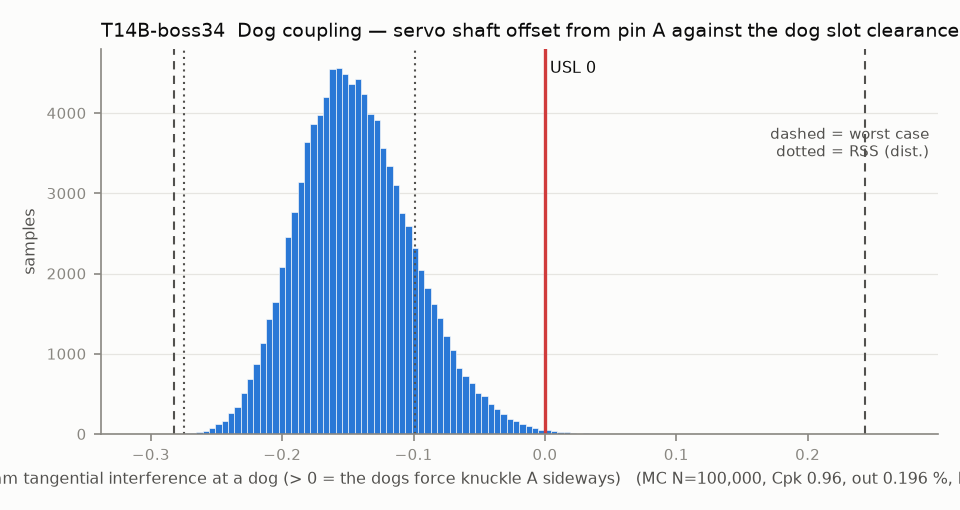
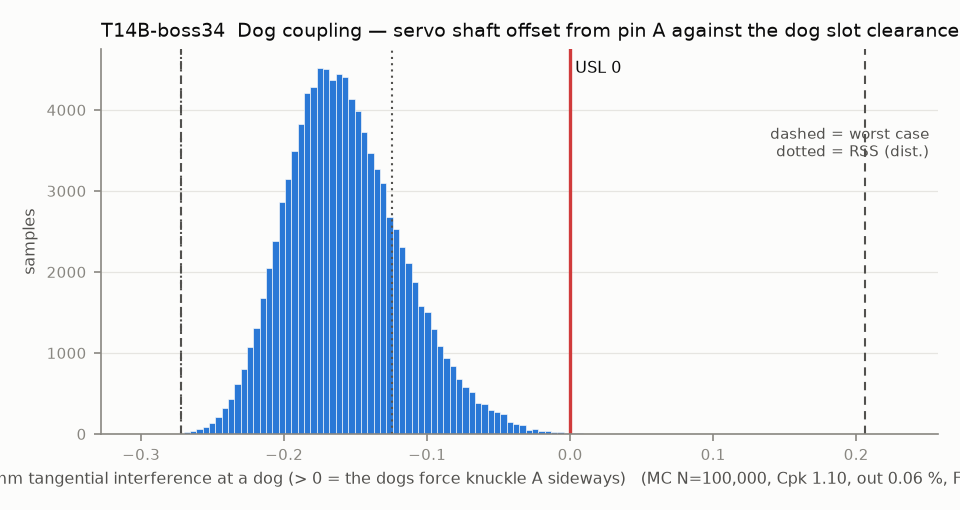
B40: regenerate coupling tolerance figures

diff --git a/analysis/gripper/tolstack/results/T09-b40_shoulder34.md b/analysis/gripper/tolstack/results/T09-b40_shoulder34.md
@@ -43,3 +43,5 @@ The rigid contact faces (PLA nail on A, FSR stack on B) are contact_gap apart at
 | Dominant contributor | horn_trim (68 %) |
 | Pass/fail by the declared method (MC) | PASS |
 | **Verdict (pass / marginal / fail)** | **PASS** |
+
+![T09-b40_shoulder34 histogram](figures/tol_T09-b40_shoulder34.png)
